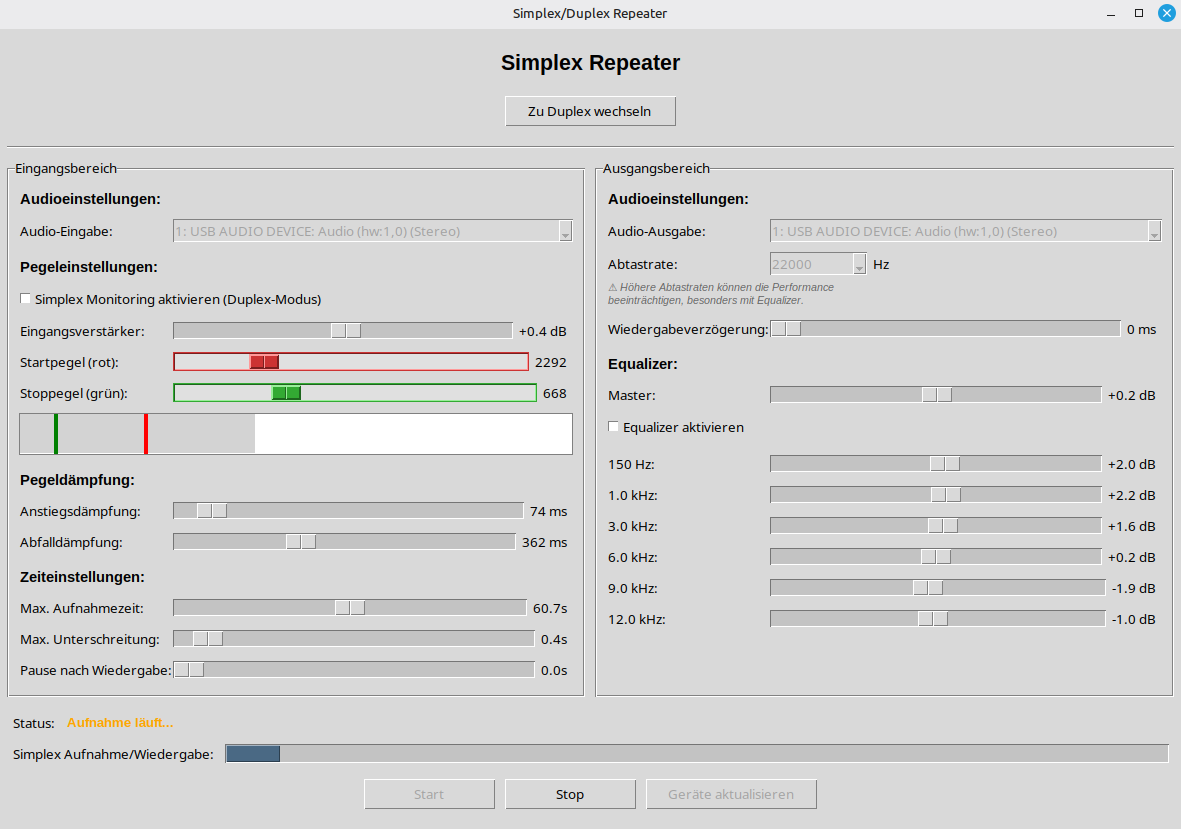
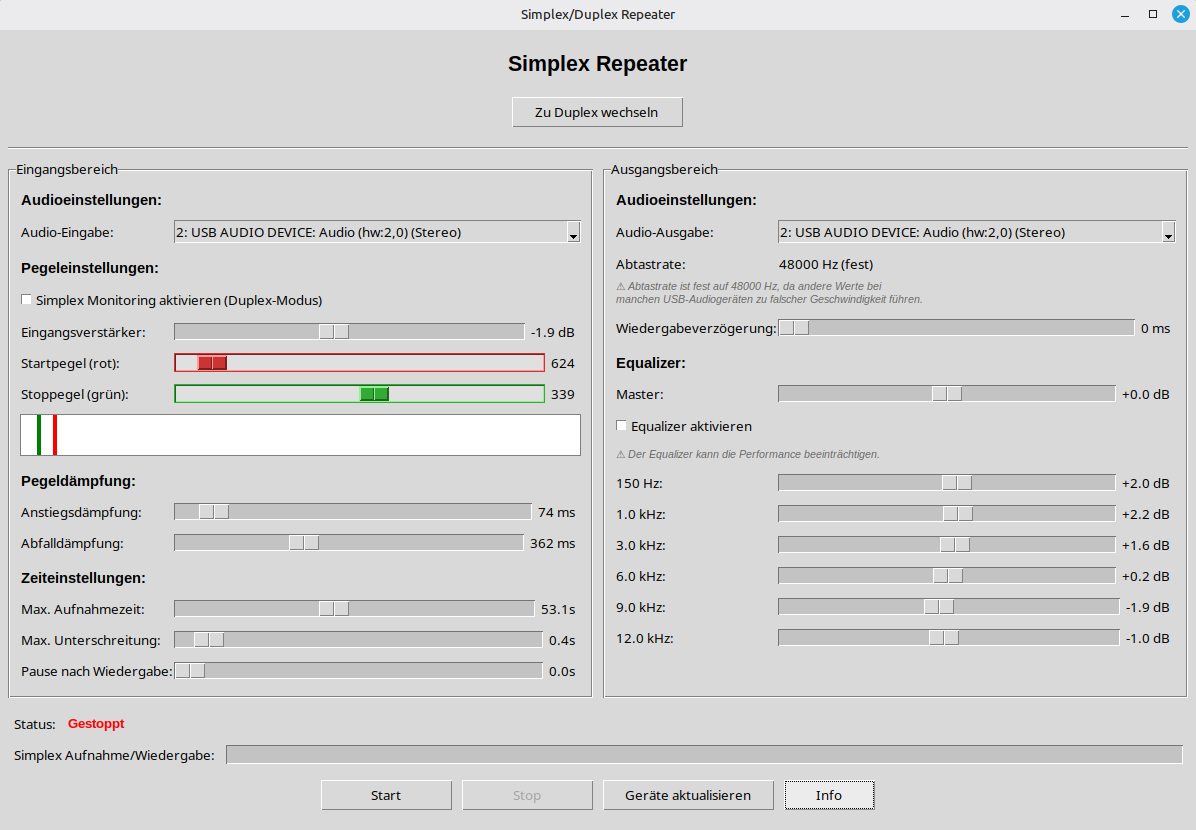
fixed audio too fast

diff --git a/simplex_repeater/audio/engine.py b/simplex_repeater/audio/engine.py
@@ -19,9 +19,6 @@ class AudioEngineMixin:
                 self.root.after(0, self.stop_repeater)
                 return
 
-            # Debug-Aufzeichnung von Ein-/Ausgangsaudio für Fehleranalyse
-            self.start_debug_recording()
-
             # PipeWire-Verbindungen herstellen: kurzer Delay damit PipeWire
             # die neuen ALSA-Nodes registrieren kann, bevor pw-link sie verbindet
             time.sleep(0.5)
@@ -45,10 +42,7 @@ class AudioEngineMixin:
                     self.stream_out.close()
                     self.stream_out = None
 
-            self.stop_debug_recording()
-
         except Exception as e:
-            self.stop_debug_recording()
             self.root.after(0, messagebox.showerror, "Fehler",
                           f"Audio-Fehler: {str(e)}")
             self.root.after(0, self.stop_repeater)
@@ -90,11 +84,8 @@ class AudioEngineMixin:
                         self.delayed_playback_buffer.popleft()
 
                     # Aufnahme
-                    _read_t0 = time.perf_counter()
                     data = self.stream_in.read(self.CHUNK, exception_on_overflow=False)
-                    _read_seconds = time.perf_counter() - _read_t0
                     data = self.apply_input_gain(data)
-                    self.debug_record_input(data, self.input_channels, _read_seconds)
 
                     # Sofort zum Wiedergabe-Buffer hinzufügen (Performance-kritisch!)
                     self.delayed_playback_buffer.append(data)
@@ -134,7 +125,6 @@ class AudioEngineMixin:
                             # Konvertiere Kanäle falls nötig (z.B. Stereo-Input zu Mono-Output)
                             data_for_output = self.convert_channels(data, self.input_channels, self.output_channels)
 
-                            self.debug_record_output(data_for_output, self.output_channels)
                             self.stream_out.write(data_for_output)
                     else:
                         # Buffer leer, warte kurz
@@ -206,7 +196,6 @@ class AudioEngineMixin:
                         # Konvertiere Kanäle falls nötig für Wiedergabe
                         data_for_output = self.convert_channels(data, self.input_channels, self.output_channels)
 
-                        self.debug_record_output(data_for_output, self.output_channels)
                         self.stream_out.write(data_for_output)
                     else:
                         # Monitoring deaktiviert, Wiedergabe läuft oder Buffer leer
@@ -229,11 +218,8 @@ class AudioEngineMixin:
                         break
 
                     # Aufnahme
-                    _read_t0 = time.perf_counter()
                     data = self.stream_in.read(self.CHUNK, exception_on_overflow=False)
-                    _read_seconds = time.perf_counter() - _read_t0
                     data = self.apply_input_gain(data)
-                    self.debug_record_input(data, self.input_channels, _read_seconds)
 
                     # Füge zum verzögerten Wiedergabe-Buffer hinzu nur wenn Monitoring aktiviert
                     if self.monitoring_enabled:
@@ -305,11 +291,8 @@ class AudioEngineMixin:
                     if chunk_count >= chunks_to_record:
                         break
 
-                    _read_t0 = time.perf_counter()
                     data = self.stream_in.read(self.CHUNK, exception_on_overflow=False)
-                    _read_seconds = time.perf_counter() - _read_t0
                     data = self.apply_input_gain(data)
-                    self.debug_record_input(data, self.input_channels, _read_seconds)
                     chunk_count += 1
 
                     self.audio_buffer.append(data)
@@ -377,7 +360,6 @@ class AudioEngineMixin:
                 # Konvertiere Kanäle falls nötig für Wiedergabe
                 data_for_output = self.convert_channels(data, self.input_channels, self.output_channels)
 
-                self.debug_record_output(data_for_output, self.output_channels)
                 self.stream_out.write(data_for_output)
 
                 played_chunks += 1

diff --git a/simplex_repeater/gui/callbacks.py b/simplex_repeater/gui/callbacks.py
@@ -1,7 +1,8 @@
 import tkinter as tk
-from tkinter import messagebox
+from tkinter import messagebox, ttk
 import threading
 import time
+import webbrowser
 
 
 class CallbacksMixin:
@@ -74,15 +75,41 @@ class CallbacksMixin:
         """Wird aufgerufen wenn Monitoring aktiviert/deaktiviert wird"""
         self.monitoring_enabled = self.monitoring_var.get()
 
-    def on_sample_rate_changed(self, event=None):
-        """Wird aufgerufen wenn Abtastrate geändert wird"""
-        if self.running:
-            messagebox.showwarning("Warnung",
-                "Bitte stoppen Sie den Repeater, bevor Sie die Abtastrate ändern!")
-            # Setze zurück auf alte Rate
-            self.sample_rate_combo.set(self.RATE)
-        else:
-            self.RATE = self.sample_rate_var.get()
+    def show_about_dialog(self):
+        """Zeigt ein Info-Popup mit Projektseite und Lizenzhinweis"""
+        project_url = "https://github.com/steffomix/simplex_audio_repeater"
+        license_url = "https://raw.githubusercontent.com/steffomix/simplex_audio_repeater/refs/heads/main/LICENSE"
+
+        about_win = tk.Toplevel(self.root)
+        about_win.title("Über Simplex/Duplex Repeater")
+        about_win.resizable(False, False)
+        about_win.transient(self.root)
+        about_win.grab_set()
+
+        frame = ttk.Frame(about_win, padding="20")
+        frame.pack(fill=tk.BOTH, expand=True)
+
+        ttk.Label(frame, text="Simplex/Duplex Repeater", font=('Arial', 14, 'bold')).pack(pady=(0, 10))
+        ttk.Label(frame, text="Ein flexibler Audio-Repeater mit grafischer Benutzeroberfläche.",
+                  wraplength=320, justify=tk.CENTER).pack(pady=(0, 15))
+
+        def add_link(label_text, url):
+            ttk.Label(frame, text=label_text).pack()
+            link = ttk.Label(frame, text=url, foreground='#1a73e8', cursor='hand2',
+                             font=('Arial', 9, 'underline'), wraplength=320)
+            link.pack(pady=(0, 10))
+            link.bind('<Button-1>', lambda e, u=url: webbrowser.open(u))
+
+        add_link("Projektseite:", project_url)
+        add_link("Lizenz (MIT):", license_url)
+
+        ttk.Button(frame, text="Schließen", command=about_win.destroy).pack(pady=(5, 0))
+
+        # Relativ zum Hauptfenster zentrieren
+        about_win.update_idletasks()
+        x = self.root.winfo_x() + (self.root.winfo_width() // 2) - (about_win.winfo_width() // 2)
+        y = self.root.winfo_y() + (self.root.winfo_height() // 2) - (about_win.winfo_height() // 2)
+        about_win.geometry(f"+{x}+{y}")
 
     def toggle_mode(self):
         """Wechselt zwischen Simplex und Duplex Modus"""
@@ -310,10 +337,9 @@ class CallbacksMixin:
         self.running = True
         self.start_button.config(state=tk.DISABLED)
         self.stop_button.config(state=tk.NORMAL)
-        # Deaktiviere Geräte- und Abtastrate-Dropdowns während Betrieb
+        # Deaktiviere Geräte-Dropdowns während Betrieb
         self.input_device_combo.config(state=tk.DISABLED)
         self.output_device_combo.config(state=tk.DISABLED)
-        self.sample_rate_combo.config(state=tk.DISABLED)
         self.refresh_devices_button.config(state=tk.DISABLED)
         self.update_status("Simplex Bereit - Warte auf überschreiten des Startpegels...", 'green')
 
@@ -328,10 +354,9 @@ class CallbacksMixin:
         self.is_playing = False
         self.start_button.config(state=tk.NORMAL)
         self.stop_button.config(state=tk.DISABLED)
-        # Aktiviere Geräte- und Abtastrate-Dropdowns wieder
+        # Aktiviere Geräte-Dropdowns wieder
         self.input_device_combo.config(state='readonly')
         self.output_device_combo.config(state='readonly')
-        self.sample_rate_combo.config(state='readonly')
         self.refresh_devices_button.config(state=tk.NORMAL)
         self.update_status("Gestoppt", 'red')
         self.progress['value'] = 0

diff --git a/simplex_repeater/gui/main_window.py b/simplex_repeater/gui/main_window.py
@@ -88,6 +88,10 @@ class GuiMixin:
                                                  command=self.refresh_audio_devices, width=20)
         self.refresh_devices_button.pack(side=tk.LEFT, padx=5)
 
+        self.about_button = ttk.Button(button_frame, text="Info",
+                                       command=self.show_about_dialog, width=10)
+        self.about_button.pack(side=tk.LEFT, padx=5)
+
         # Grid-Konfiguration
         main_frame.columnconfigure(0, weight=1)
         main_frame.columnconfigure(1, weight=1)
@@ -292,25 +296,21 @@ class GuiMixin:
         self.output_device_combo.grid(row=row_right, column=1, sticky=(tk.W, tk.E), pady=5)
         self.output_device_combo.bind('<<ComboboxSelected>>', self.on_output_device_changed)
 
-        # Abtastrate-Auswahl
+        # Abtastrate: fest auf 48000 Hz - siehe repo-Notizen/README: bei diesem
+        # PortAudio/ALSA-Setup funktionieren andere Abtastraten mit manchen
+        # USB-Audiogeräten (v.a. bei raw "hw:X,Y"-Zugriff) nicht korrekt und
+        # verursachen Aufnahmen/Wiedergaben mit falscher Geschwindigkeit.
         row_right += 1
         ttk.Label(right_frame, text="Abtastrate:").grid(
             row=row_right, column=0, sticky=tk.W, pady=5)
-        self.sample_rate_var = tk.IntVar(value=44100)
-        sample_rate_frame = ttk.Frame(right_frame)
-        sample_rate_frame.grid(row=row_right, column=1, sticky=(tk.W, tk.E), pady=5)
-        self.sample_rate_combo = ttk.Combobox(sample_rate_frame,
-                                              textvariable=self.sample_rate_var,
-                                              values=[8000, 11025, 16000, 22050, 32000, 44100, 48000],
-                                              state='readonly', width=10)
-        self.sample_rate_combo.pack(side=tk.LEFT)
-        self.sample_rate_combo.bind('<<ComboboxSelected>>', self.on_sample_rate_changed)
-        ttk.Label(sample_rate_frame, text="Hz").pack(side=tk.LEFT, padx=5)
+        ttk.Label(right_frame, text=f"{self.RATE} Hz (fest)").grid(
+            row=row_right, column=1, sticky=tk.W, pady=5)
 
-        # Performance-Hinweis
+        # Hinweis zur festen Abtastrate
         row_right += 1
         perf_hint = ttk.Label(right_frame,
-                             text="⚠ Höhere Abtastraten können die Performance\nbeeinträchtigen, besonders mit Equalizer.",
+                             text="⚠ Abtastrate ist fest auf 48000 Hz, da andere Werte bei\n"
+                                  "manchen USB-Audiogeräten zu falscher Geschwindigkeit führen.",
                              font=('Arial', 8, 'italic'),
                              foreground='#666666',
                              justify=tk.LEFT)
@@ -358,6 +358,16 @@ class GuiMixin:
                                                    variable=self.equalizer_enabled_var,
                                                    command=self.on_equalizer_toggle)
         self.equalizer_checkbox.grid(row=row_right, column=0, columnspan=2, sticky=tk.W, pady=(5, 10))
+
+
+        # Hinweis Equalizer ist performance hungrig
+        row_right += 1
+        perf_hint_eq = ttk.Label(right_frame,
+                                 text="⚠ Der Equalizer kann die Performance beeinträchtigen.",
+                                 font=('Arial', 8, 'italic'),
+                                 foreground='#666666',
+                                 justify=tk.LEFT)
+        perf_hint_eq.grid(row=row_right, column=0, columnspan=2, sticky=tk.W, pady=(0, 5))
 
         # Equalizer-Bänder (6 Bänder)
         self.eq_scales = {}

diff --git a/simplex_repeater/config.py b/simplex_repeater/config.py
@@ -43,15 +43,11 @@ class ConfigMixin:
                 self.equalizer_enabled_var.set(equalizer_enabled)
                 self.equalizer_enabled = equalizer_enabled
 
-                # Abtastrate laden
-                # HINWEIS: 22000 Hz ist keine gueltige PCM-Standardrate (richtig waere 22050) und
-                # wurde von manchen Audiogeraeten (v.a. direkt als "hw:X,Y" ohne PipeWire-Resampling
-                # geoeffnete USB-Interfaces) nicht sauber unterstuetzt - das fuehrte zu falscher
-                # Aufnahmegeschwindigkeit. Alte Konfigurationen mit 22000 werden daher ignoriert.
-                saved_rate = config.get('sample_rate', 44100)
-                if saved_rate in [8000, 11025, 16000, 22050, 32000, 44100, 48000]:
-                    self.RATE = saved_rate
-                    self.sample_rate_var.set(saved_rate)
+                # HINWEIS: Abtastrate wird NICHT mehr aus der Konfiguration geladen -
+                # sie ist fest auf 48000 Hz (siehe app.py). Andere Raten fuehrten bei
+                # manchen USB-Audiogeraeten (raw "hw:X,Y"-Zugriff) zu falscher
+                # Aufnahme-/Wiedergabegeschwindigkeit. Alte gespeicherte Werte werden
+                # ignoriert, damit betroffene Nutzer automatisch auf 48000 Hz laufen.
 
                 # Audiogeräte aus Konfiguration setzen (falls vorhanden)
                 # Zuerst wird anhand des indexunabhängigen Rohnamens gesucht, da sich

diff --git a/simplex_repeater/app.py b/simplex_repeater/app.py
@@ -8,7 +8,6 @@ from collections import deque
 from .audio.engine import AudioEngineMixin
 from .audio.devices import DevicesMixin
 from .audio.processing import ProcessingMixin
-from .audio.debug_record import DebugRecordMixin
 from .equalizer.equalizer import EqualizerMixin
 from .gui.main_window import GuiMixin
 from .gui.callbacks import CallbacksMixin
@@ -17,7 +16,7 @@ from .pipewire.patchbay import PipeWirePatchbayMixin
 
 
 class SimplexRepeater(AudioEngineMixin, DevicesMixin, ProcessingMixin,
-                      DebugRecordMixin, EqualizerMixin, GuiMixin, CallbacksMixin,
+                      EqualizerMixin, GuiMixin, CallbacksMixin,
                       ConfigMixin, PipeWirePatchbayMixin):
 
     def __init__(self, root):
@@ -31,7 +30,9 @@ class SimplexRepeater(AudioEngineMixin, DevicesMixin, ProcessingMixin,
         self.CHANNELS = 2  # Standard: Stereo (wird beim Stream-Öffnen aktualisiert)
         self.input_channels = 2  # Tatsächliche Anzahl Eingangskanäle
         self.output_channels = 2  # Tatsächliche Anzahl Ausgangskanäle
-        self.RATE = 44100
+        # Fest auf 48000 Hz: andere Raten fuehren bei manchen USB-Audiogeraeten
+        # (PortAudio/ALSA "hw:X,Y"-Zugriff) zu falscher Aufnahme-/Wiedergabegeschwindigkeit
+        self.RATE = 48000
         # Equalizer-Aktivierung
         self.equalizer_enabled = True
 

diff --git a/README.md b/README.md
@@ -124,13 +124,44 @@ Oder einfach eines der Starter-Skripte aus dem [Schnellstart](#schnellstart-auch
 ## Technische Details
 
 - **Audio-Format**: 16-bit PCM
-- **Samplerate**: einstellbar zwischen 8000 Hz und 44100 Hz
+- **Samplerate**: fest auf 48000 Hz (siehe [Abtastrate ändern](#abtastrate-ändern))
 - **Kanäle**: Mono oder Stereo, abhängig vom gewählten Ein-/Ausgabegerät (automatische Kanalanpassung)
 - **Puffergröße**: 1024 Frames
 - **Equalizer**: 4. Ordnung Butterworth Bandpass/Lowpass/Highpass Filter
 - **Threading**: Separate Threads für GUI und Audio-Verarbeitung
   - Simplex: Ein Audio-Thread mit sequenzieller Aufnahme/Wiedergabe
   - Duplex: Zwei parallele Threads für kontinuierliche Aufnahme und Wiedergabe
+
+### Abtastrate ändern
+
+Die Abtastrate ist bewusst fest im Code hinterlegt und nicht über die Oberfläche
+einstellbar (kein Dropdown mehr). Grund: Bei manchen USB-Audiogeräten (v.a. bei
+direktem ALSA-Hardwarezugriff, z.B. Geräte mit der Bezeichnung `hw:X,Y`) sorgen
+andere Abtastraten als die native Rate des Geräts für eine falsche Aufnahme-/
+Wiedergabegeschwindigkeit (Audio klingt zu schnell oder zu langsam, obwohl die
+Tonhöhe unverändert bleibt). 48000 Hz hat sich dabei als die zuverlässigste,
+universell unterstützte Rate erwiesen.
+
+Falls Ihr Audiogerät eine andere Abtastrate benötigt, können Sie diese manuell
+anpassen:
+
+1. Öffnen Sie `simplex_repeater/app.py` in einem Texteditor
+2. Suchen Sie im `__init__` der Klasse `SimplexRepeater` die Zeile:
+   ```python
+   self.RATE = 48000
+   ```
+3. Ändern Sie den Wert auf die gewünschte Abtastrate (z.B. `44100` oder `22050`)
+4. Speichern und das Programm neu starten
+
+**Wichtig**: Nach einer Änderung sollten Sie die Aufnahme-/Wiedergabegeschwindigkeit
+testen (z.B. eine kurze Ansage mit bekannter Dauer aufnehmen und per Stoppuhr mit
+der Wiedergabedauer vergleichen). Klingt die Wiedergabe zu schnell oder zu langsam
+bei ansonsten korrekter Tonhöhe, unterstützt Ihr Audiogerät die gewählte Abtastrate
+vermutlich nicht sauber - probieren Sie in diesem Fall eine andere Standardrate
+(8000, 11025, 16000, 22050, 32000, 44100 oder 48000 Hz) oder wählen Sie in den
+Audio-Einstellungen Ihres Betriebssystems (z.B. PipeWire/PulseAudio statt direktem
+ALSA-Hardwarezugriff) ein anderes Eingabe-/Ausgabegerät aus.
+
 
 ## Hinweise
 
@@ -171,6 +202,9 @@ Oder einfach eines der Starter-Skripte aus dem [Schnellstart](#schnellstart-auch
 
 #### Kein Ton/Rückkopplung
 - Siehe [Bekannte Einschränkungen](#bekannte-einschränkungen) unten.
+
+#### Aufnahme/Wiedergabe klingt zu schnell oder zu langsam (Tonhöhe aber korrekt)
+- Ihr Audiogerät kommt vermutlich nicht mit der aktuell verwendeten Abtastrate zurecht. Siehe [Abtastrate ändern](#abtastrate-ändern).
 
 ## Bekannte Einschränkungen
 
